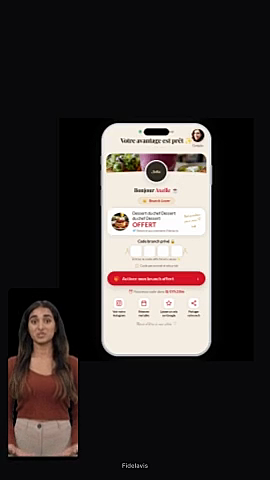
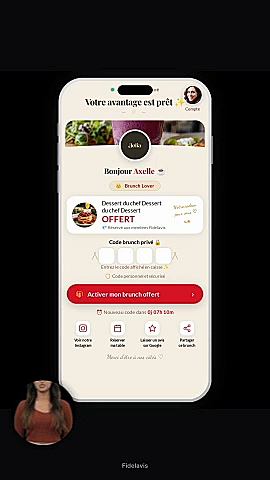
pilot(jolia) v5 : iPhone plein écran + Anna en cercle + sharpen max
- Mockup_right : 100%×100% fit:contain → wallet + logo Jolia bien
  lisibles (occupe quasi tout le canvas, juste des bandes noires
  top/bottom qui se fondent dans le fond noir).
- Avatar_left → Avatar_circle : 260×260 px avec border_radius=260px
  (cercle), position bas-gauche x=16% y=86%, ombre douce.
- sharpen_mp4() : CRF 14 (au lieu de 18) + cas (Content Adaptive
  Sharpen) en plus de unsharp → image visiblement plus piquée.

diff --git a/scripts/gen_dm_videos.py b/scripts/gen_dm_videos.py
@@ -316,14 +316,20 @@ def sharpen_mp4(video_path: Path) -> Path | None:
         return None
     import subprocess
     tmp = video_path.with_suffix(".sharp.mp4")
+    # Pipeline visuel :
+    #   unsharp léger pour relever les bords, puis cas (Content Adaptive
+    #   Sharpen) qui suit la complexité locale → moins d'artéfacts qu'avec
+    #   un simple unsharp à fort gain.
+    vf = "unsharp=lx=5:ly=5:la=1.2:cx=3:cy=3:ca=0.0,cas=strength=0.6"
     try:
         subprocess.run(
             [ffmpeg, "-y", "-i", str(video_path),
-             "-vf", "unsharp=lx=5:ly=5:la=1.1:cx=3:cy=3:ca=0.0",
-             "-c:v", "libx264", "-preset", "slow", "-crf", "18",
+             "-vf", vf,
+             "-c:v", "libx264", "-preset", "slow", "-crf", "14",
+             "-pix_fmt", "yuv420p",
              "-c:a", "copy", "-movflags", "+faststart",
              str(tmp)],
-            check=True, capture_output=True, timeout=180,
+            check=True, capture_output=True, timeout=240,
         )
         tmp.replace(video_path)
         print(f"  ✓ sharpen OK → {video_path.stat().st_size/(1024*1024):.2f} MB")

diff --git a/jolia-video-production-report.md b/jolia-video-production-report.md
@@ -1,19 +1,19 @@
 # Rapport de production vidéo — **Jolia**
-_Généré le 2026-05-31 à 18:47_
+_Généré le 2026-05-31 à 19:05_
 
 ## ✅ Vidéo produite
 
 - **Fichier local** : `dm_videos/jolia-dm.mp4`
-- **Poids** : 0.46 MB
-- **Durée totale du pipeline** : 38.3 s
-- **URL Creatomate (CDN)** : https://f002.backblazeb2.com/file/creatomate-c8xg3hsxdu/08b83e2c-e9aa-47cd-8a8b-1aec55f2940f.mp4
+- **Poids** : 0.43 MB
+- **Durée totale du pipeline** : 11.3 s
+- **URL Creatomate (CDN)** : https://f002.backblazeb2.com/file/creatomate-c8xg3hsxdu/a66cee81-ec3b-4b4c-a227-b4f644dcfa09.mp4
 
 ## ⏱ Durées
 
 - Script parlé estimé : **~11.2 s** (28 mots)
 - Vidéo finale : **30 s** (1080×1920, 30 fps)
 - Rendu HeyGen : ~0 s
-- Rendu Creatomate : ~38.3 s
+- Rendu Creatomate : ~11.3 s
 
 ## 💰 Coût
 
@@ -27,7 +27,7 @@ _(Vérifier les chiffres exacts dans les dashboards HeyGen et Creatomate.)_
 
 - HeyGen `video_id` : `<reused>`
 - HeyGen `video_url` : https://files2.heygen.ai/aws_pacific/avatar_tmp/288630a07eca49aa87460535cee78838/5f1c268c304e40e7b0c45bcedf09971c.mp4?Expires=1780849758&Signature=cCoA8M3s8Ay2xuG66zAt87NH8xMgksHtbdi-Ttg7HqbaF~H6~76oXDZqPSd18YdF8dkHRQIjS1voiDul9h0cL1icQY324AYF2jGfh6TevYrGhFoOla89QLTV5-n1MC5ffXlzXH2G3XTm2q9qUT-qmFFsj4c3i-UxcmoGi8-ZRYx4BGoZohlt96dDzTflUnuZ10hZhiXt-uWFALCGZYaOEDW3195TIghJa6Q1-B~-oB~4-Fu9H-inbAWBo0TWP5t~pdlrcORe1G4QAcSKqVhG8C0Ucb5CxqzgtHawRN9u5Q7b~56j~XIy1irXIGIUynHoZZGn340NsQRDzJCt~Ofhcw__&Key-Pair-Id=K38HBHX5LX3X2H
-- Creatomate `render_id` : `08b83e2c-e9aa-47cd-8a8b-1aec55f2940f`
+- Creatomate `render_id` : `a66cee81-ec3b-4b4c-a227-b4f644dcfa09`
 
 ## 🎬 Scènes clés
 
